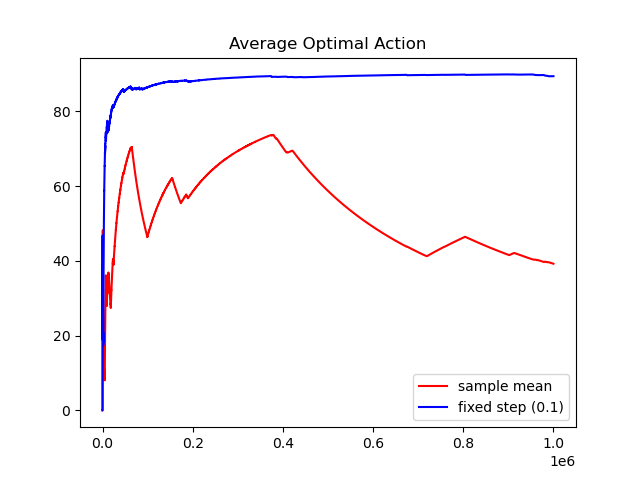
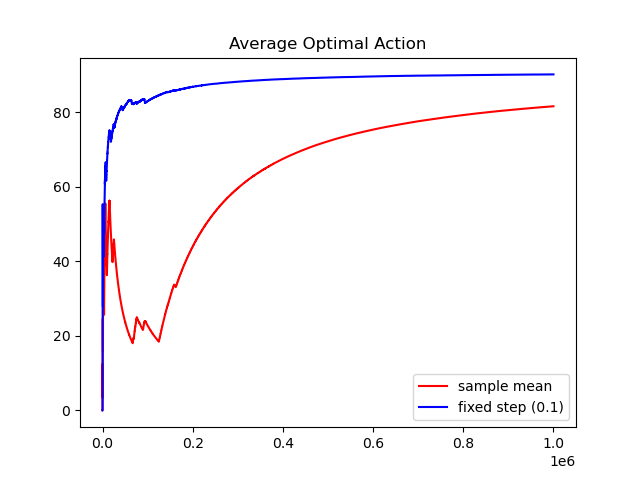
using fixed seed and updated plots

diff --git a/main.py b/main.py
@@ -15,7 +15,7 @@ avg_optimal1, avg_optimal2 = IncrementalAverage(), IncrementalAverage() # percen
 max_avg_reward = IncrementalAverage() # keep track of optimal average reward
 sample_mean = Agent(k=k, epsilon=eps, step_size=None) # uses the sample mean as its action-value estimator
 fixed_step = Agent(k=k, epsilon=eps, step_size=alpha) # uses a weighted average as its action-value estimator
-# random.seed(0)
+random.seed(0)
 
 # data to plot at end
 data = {
